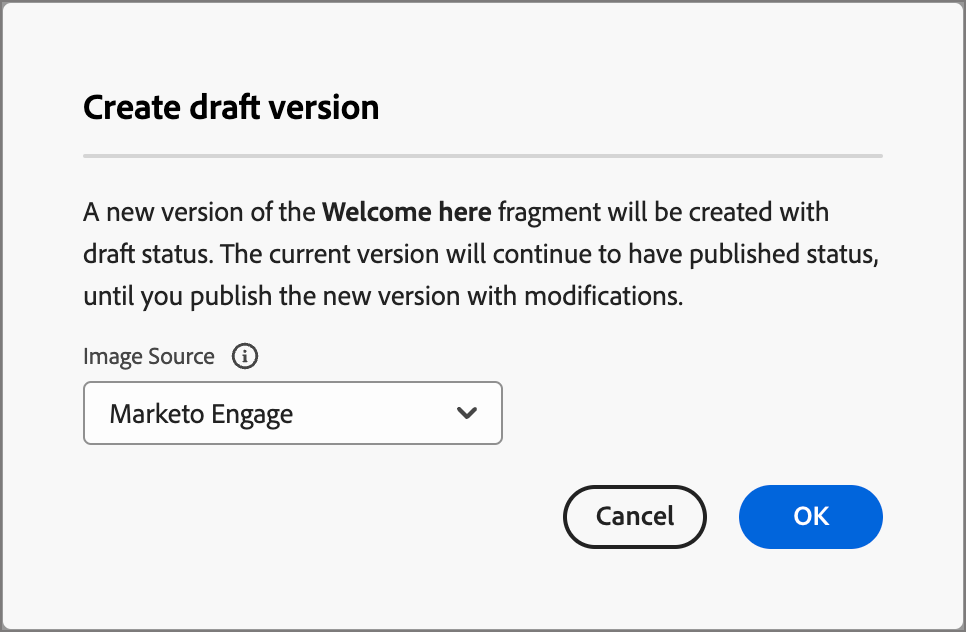
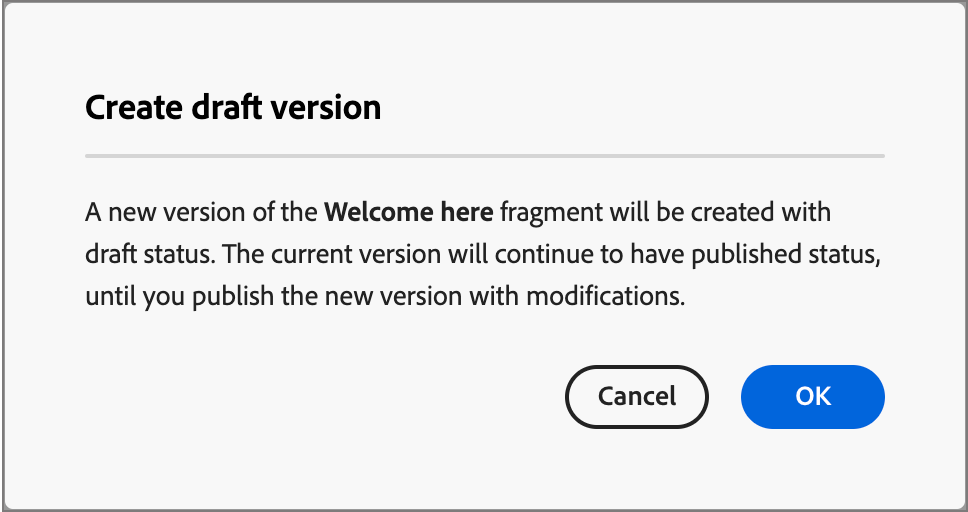
Update fragments create draft

diff --git a/help/user/content/fragments.md b/help/user/content/fragments.md
@@ -210,7 +210,7 @@ Edits to a fragment depend on its current status:
 
 1. If you want to update the content, click **[!UICONTROL Create draft version]** at the top right.
 
-   Click **[!UICONTROL OK]** in the dialog to open the draft version in the visual designer. You can change the [image source](./assets-overview.md#choose-an-asset-source) if needed. 
+   Click **[!UICONTROL OK]** in the dialog to open the draft version in the visual designer.
 
    ![Create draft version dialog](./assets/fragments-create-draft-version.png){width="300"}
 
